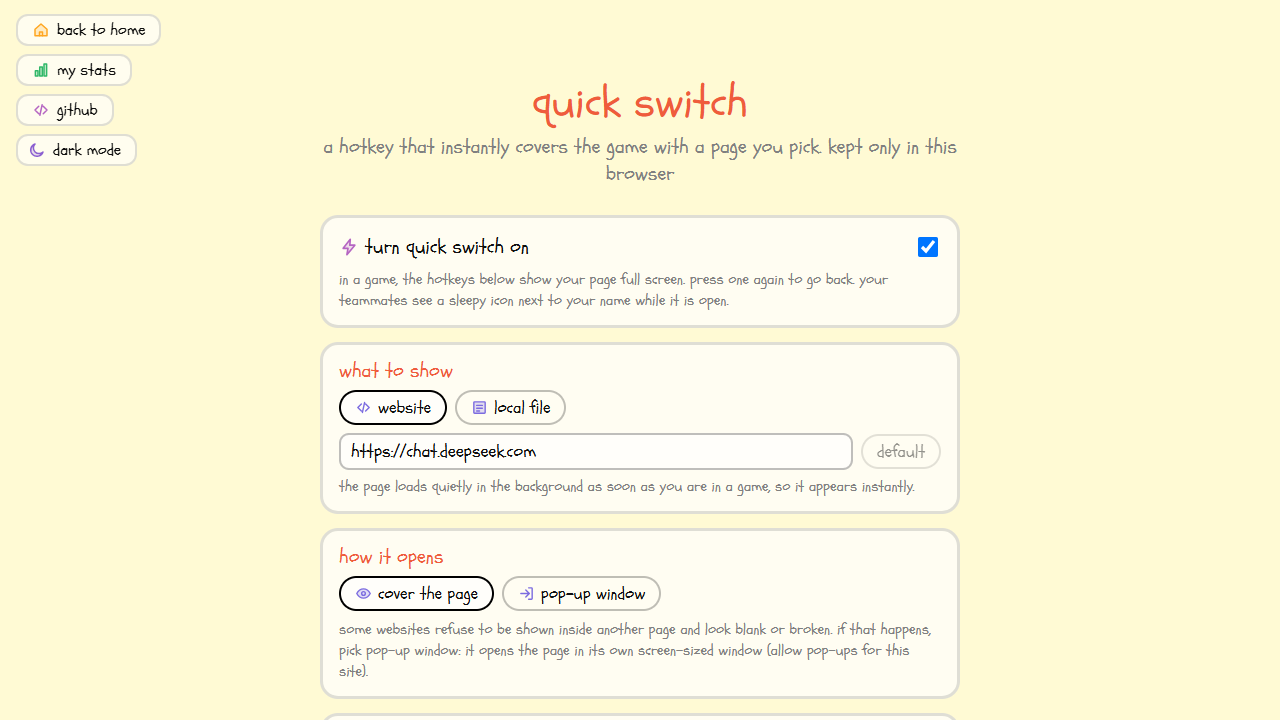
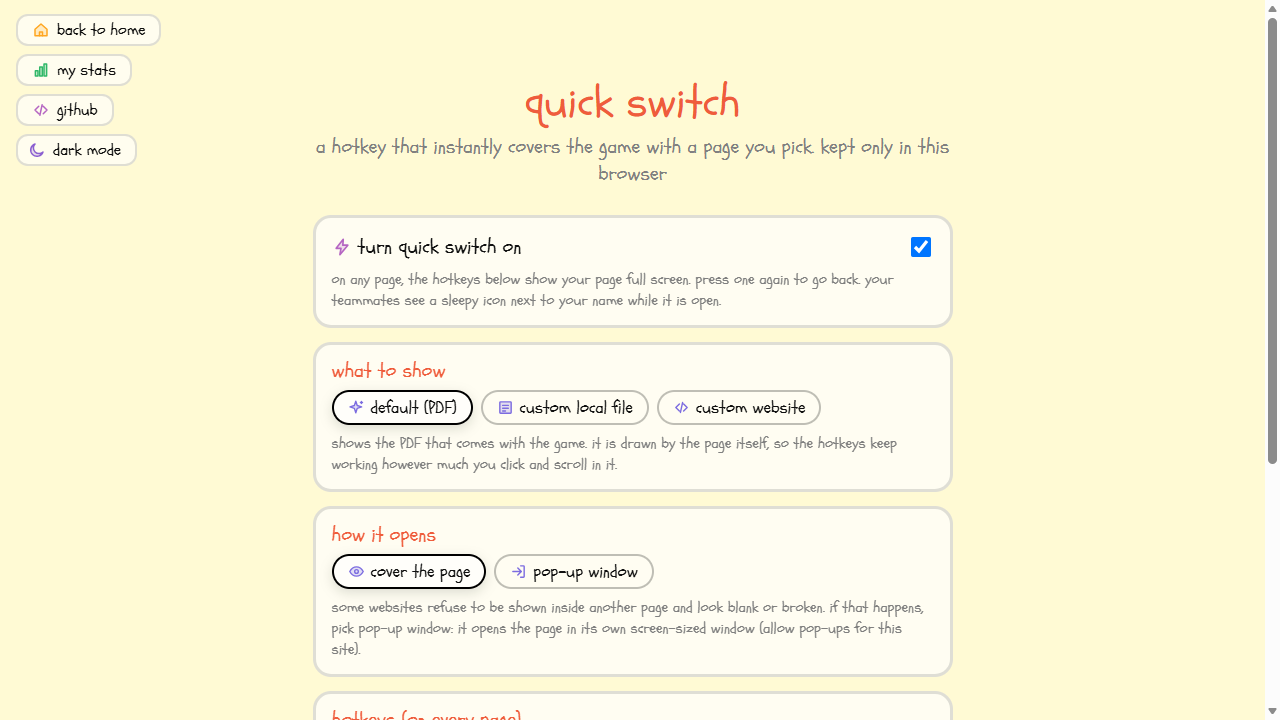
Instant quick switch, GPU cross-fade for theme switch, README brought up to date

diff --git a/src/theme.js b/src/theme.js
@@ -1,5 +1,5 @@
 // Light / dark theme. Light by default; the player's choice lives in localStorage.
-import { reactive } from 'vue';
+import { nextTick, reactive } from 'vue';
 import { safeStorage } from './storage.js';
 
 const KEY = 'theme';
@@ -19,15 +19,28 @@ export function applyTheme() {
 }
 
 let fadeTimer;
+function change() {
+  theme.choice = theme.dark ? 'light' : 'dark';
+  storage?.setItem(KEY, theme.choice);
+  applyTheme();
+}
 export function toggleTheme() {
-  // colours glide to the other theme instead of snapping
+  const reduced = window.matchMedia?.('(prefers-reduced-motion: reduce)').matches;
+  if (!reduced && document.startViewTransition) {
+    // the browser blends a snapshot of the old page into the new one on the GPU: smooth even on slow devices
+    document.startViewTransition(async () => {
+      change();
+      await nextTick();
+    });
+    return;
+  }
+  if (reduced) return change();
+  // older browsers: let the colours glide
   const root = document.documentElement;
   root.classList.add('theme-fade');
   clearTimeout(fadeTimer);
   fadeTimer = setTimeout(() => root.classList.remove('theme-fade'), 450);
-  theme.choice = theme.dark ? 'light' : 'dark';
-  storage?.setItem(KEY, theme.choice);
-  applyTheme();
+  change();
 }
 
 export function initTheme() {

diff --git a/src/style.css b/src/style.css
@@ -5416,9 +5416,9 @@ input[type='checkbox']:not(:disabled):active {
   transition: transform var(--t-med) var(--ease-out);
 }
 
-/* quick switch: a quick fade, never a wait */
+/* quick switch is instant: no fade, no delay */
 .qs-cover {
-  transition: opacity 0.12s ease;
+  transition: none;
 }
 .qs-exit {
   transition:
@@ -5440,4 +5440,11 @@ input[type='checkbox']:not(:disabled):active {
     transition-delay: 0ms !important;
     scroll-behavior: auto !important;
   }
+}
+
+/* theme switch: one smooth cross-fade of the whole page */
+::view-transition-old(root),
+::view-transition-new(root) {
+  animation-duration: 0.4s;
+  animation-timing-function: var(--ease-out);
 }

diff --git a/README.md b/README.md
@@ -31,9 +31,8 @@ chill, chaos). All rules are stored in the game's settings, so they apply to eve
 | drawing | colour palette (full / basic / greys), allow eraser, allow clear |
 | guessing | 2-4 words to choose from, letter hints every N seconds, forgive one typo, single-word answers only, longest word allowed |
 | players | max team size, allow spectators, allow joining after the start |
-| game | play the final drawdown (turn it off and the game simply ends after the last round) |
 
-Every number rule (and the round count and round length in the lobby) takes a typed whole number, clamped to a sane range
+The lobby settings next to it hold the round count, round length, *show word lengths*, *play the final drawdown* (turn it off and the game simply ends after the last round), *random teams* and streamer mode. Every number rule (and the round count and round length) takes a typed whole number, clamped to a sane range
 (rounds 1-200, round length 5-600 s).
 
 ### in-game chat, vote kick and team switching
@@ -42,8 +41,7 @@ Every number rule (and the round count and round length in the lobby) takes a ty
   Spectators can read along. Messages are rate limited, and a message that contains the word currently being drawn is
   blocked so nobody can spoil a round.
 * **vote kick** – open the *players* tab and press *votekick* next to someone. A kick needs **more than half of the other
-  active players** (7 players: 6 can vote, 4 votes kick). It needs at least 3 active players and never removes a team's only
-  player. If the kicked player was drawing (or choosing the word) the next active teammate takes over and the canvas is
+  active players** (7 players: 6 can vote, 4 votes kick). It needs at least 3 active players and a team always keeps at least 2 players. If the kicked player was drawing (or choosing the word) the next active teammate takes over and the canvas is
   cleared. A kicked player cannot rejoin that game.
 * **forced start** – when someone forces the next round, a planned drawer who never pressed *continue* is skipped in favour
   of the next active teammate.
@@ -153,8 +151,8 @@ Everything is served by one Node process: the client, the REST API under `/api` 
 ## how a game works
 
 * **lobby** – players join with a name and are placed on the smaller team (max 8 per team). Anyone can switch team, rename,
-  change the settings (rounds, seconds per round, word pack, show word lengths, streamer mode) and press *start game!*
-  once both teams have 2+ players. A 5 second countdown (cancellable) starts round 0.
+  change the settings (rounds, seconds per round, word pack, show word lengths, final drawdown, random teams, streamer mode) and press *start game!*
+  once both teams have 2+ players (4+ players in total with random teams). A 5 second countdown (cancellable) starts round 0.
 * **a round** – one drawer per team; the *chooser* picks one of two words (15s, otherwise the first is used), then a 3s
   countdown, then both teams draw/guess the same word. The first team to guess wins the round (200 pts, the other team
   gets 100 if it also guesses). The round ends when both guessed or the time runs out, followed by a 5s end screen and
@@ -173,6 +171,9 @@ server/wordpacks.js    word packs (+ txt files)
 src/                   Vue client (views, components, shared rules in shared.js)
 src/rating.js          player score maths and its local history
 src/quickswitch.js     quick switch settings, hotkeys and the stored file
+src/components/PdfCover.vue  draws the quick switch PDF in the page (pdf.js)
+src/presence.js        away / snooze state sent to teammates
+public/quick-switch-default.pdf  the default quick switch page
 scripts/               asset generators (icons, sounds)
 ```
 
@@ -195,7 +196,7 @@ scripts/               asset generators (icons, sounds)
 
 Footprint: ~55 MB RAM idle (node heap capped at 160 MB), no timers beyond a 30 second cleanup / heartbeat tick, so an idle
 server uses ~0 CPU. Optional env vars: `MAX_GAMES` (default 300), `MAX_SOCKETS` (default 1500). Games are kept in memory only. Dead games are reaped
-automatically: any game with no activity for 10 minutes, a lobby nobody is connected to after 2 minutes, and a started game
+automatically: a game whose players are connected but silent for 30 minutes, a lobby nobody is connected to after 2 minutes, and a started game
 whose players all dropped after 10 minutes. Every socket is pinged every 30 s, so a device that vanished (battery died, no
 signal) is dropped within a minute. Tip: in Settings you can also set a memory limit (e.g. 256 MB) and enable
 **Serverless** (app sleeping) if you want it to cost nothing while nobody plays — clients simply reconnect on wake.
